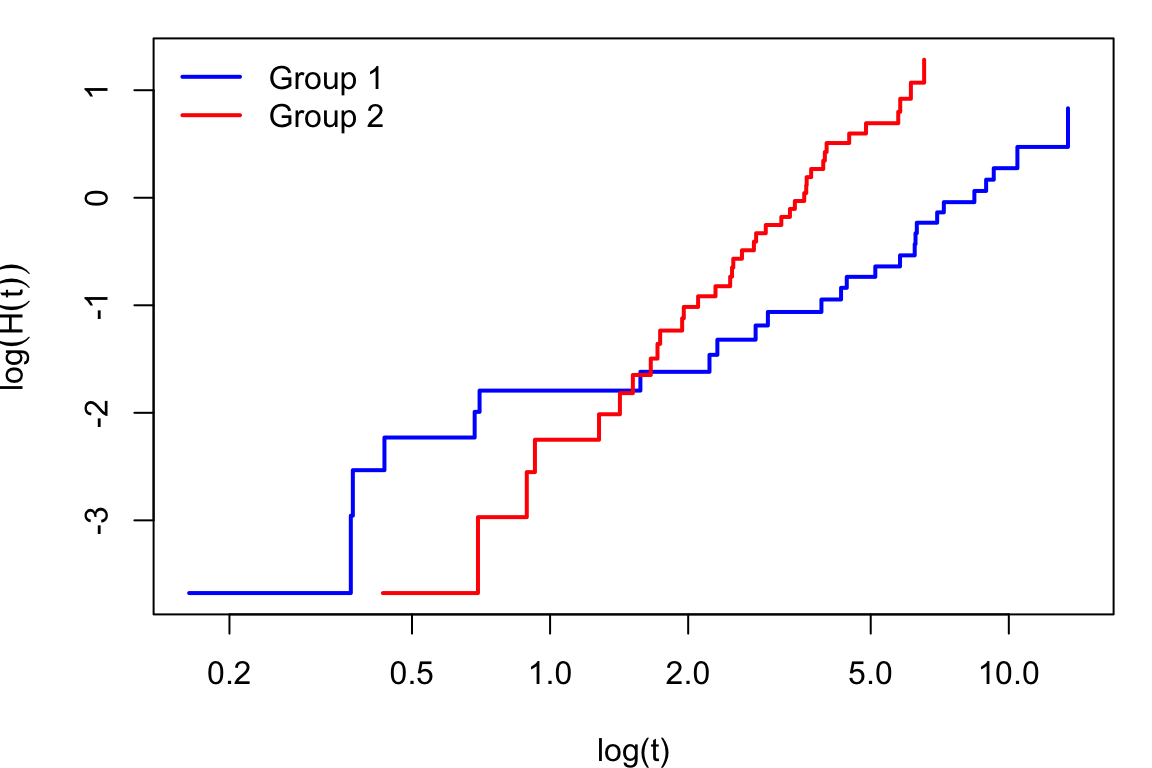
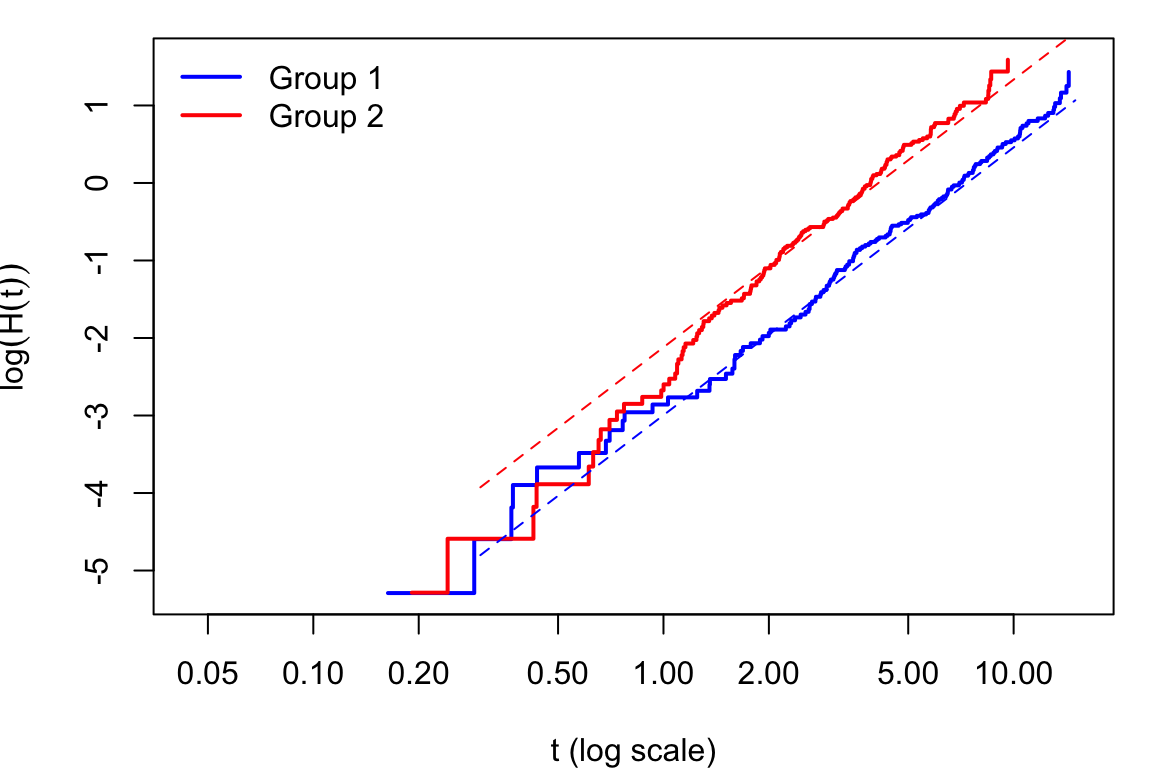
`

diff --git a/MATH3701/20_parametric_twosample.html b/MATH3701/20_parametric_twosample.html
@@ -485,6 +485,8 @@ H_j(t) = \lambda_j t \quad \Rightarrow \quad
 \log H_j(t) = \log\lambda_j + \log t.
 \]</span></p>
 <p>A plot of <span class="math inline">\(\log\widehat{H}(t)\)</span> against <span class="math inline">\(\log t\)</span> should be linear with slope 1 for both groups. If the slopes differ from 1 but are equal to each other, a Weibull model with a common shape <span class="math inline">\(\gamma\)</span> may be more appropriate.</p>
+<p>For two groups with proportional hazards, <span class="math inline">\(\log H_2(t) - \log H_1(t) =
+\log\psi\)</span> is constant, so the two curves should be parallel (a constant vertical gap). Do not expect perfect parallelism: the estimate <span class="math inline">\(\log\widehat{H}(t)\)</span> rests on very few events at small <span class="math inline">\(t\)</span>, so it is noisy there, and curves can even cross early on. Judge parallelism over the range where each group has a reasonable number of events.</p>
 <div class="cell">
 <div class="cell-output-display">
 <div id="fig-twogroupcheck" class="quarto-float quarto-figure quarto-figure-center anchored">
@@ -493,7 +495,7 @@ H_j(t) = \lambda_j t \quad \Rightarrow \quad
 <img src="20_parametric_twosample_files/figure-html/fig-twogroupcheck-1.png" class="img-fluid figure-img" width="576">
 </div>
 <figcaption class="quarto-float-caption-bottom quarto-float-caption quarto-float-fig" id="fig-twogroupcheck-caption-0ceaefa1-69ba-4598-a22c-09a6ac19f8ca">
-Figure&nbsp;20.1: Log-cumulative hazard plots for two simulated groups. Parallel lines with approximately the same slope confirm the proportional hazards assumption.
+Figure&nbsp;20.1: Log-cumulative hazard plots for two simulated groups (200 subjects each, Weibull with common shape 1.5). Dashed lines show the true log-cumulative hazards. The estimated curves are roughly parallel, with most wobble at early times where few events have occurred.
 </figcaption>
 </figure>
 </div>
